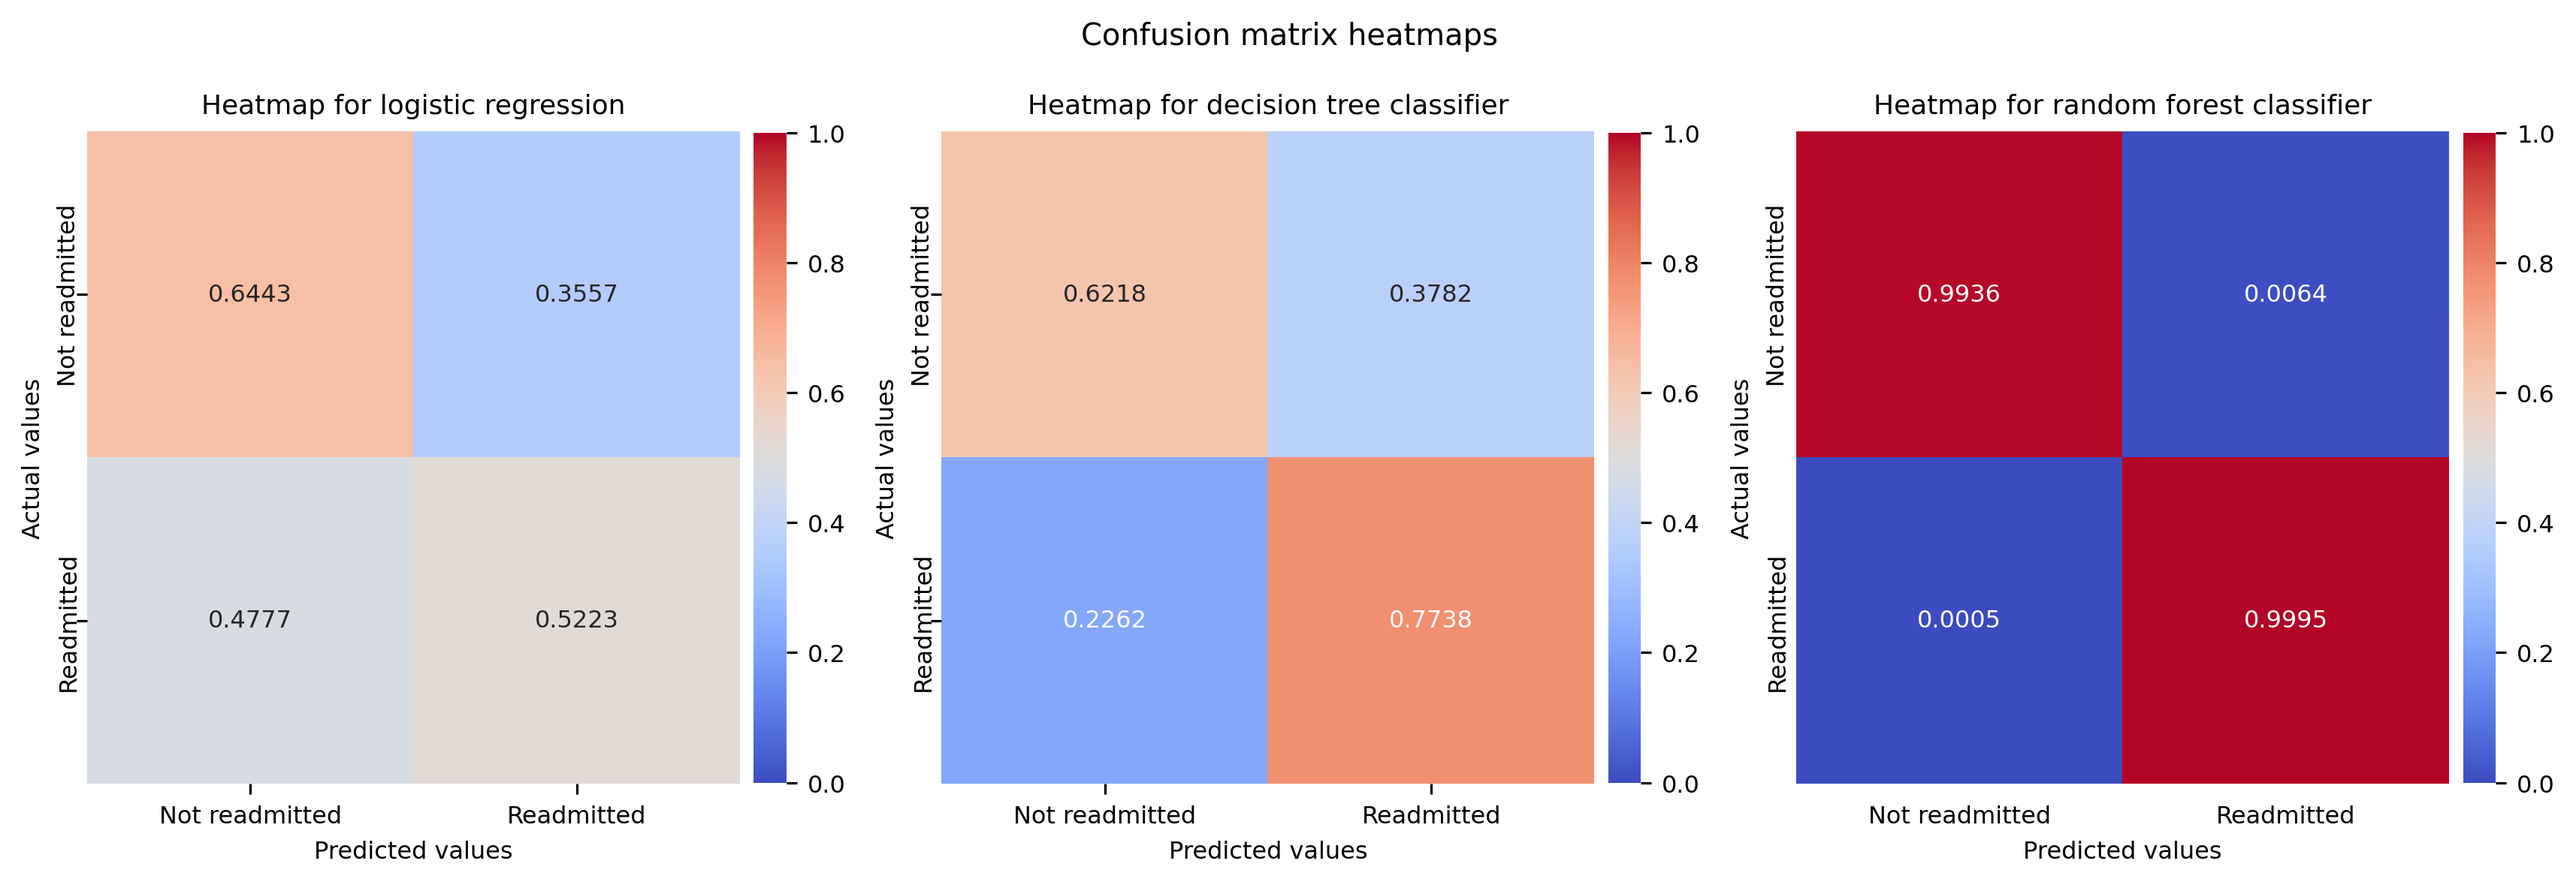
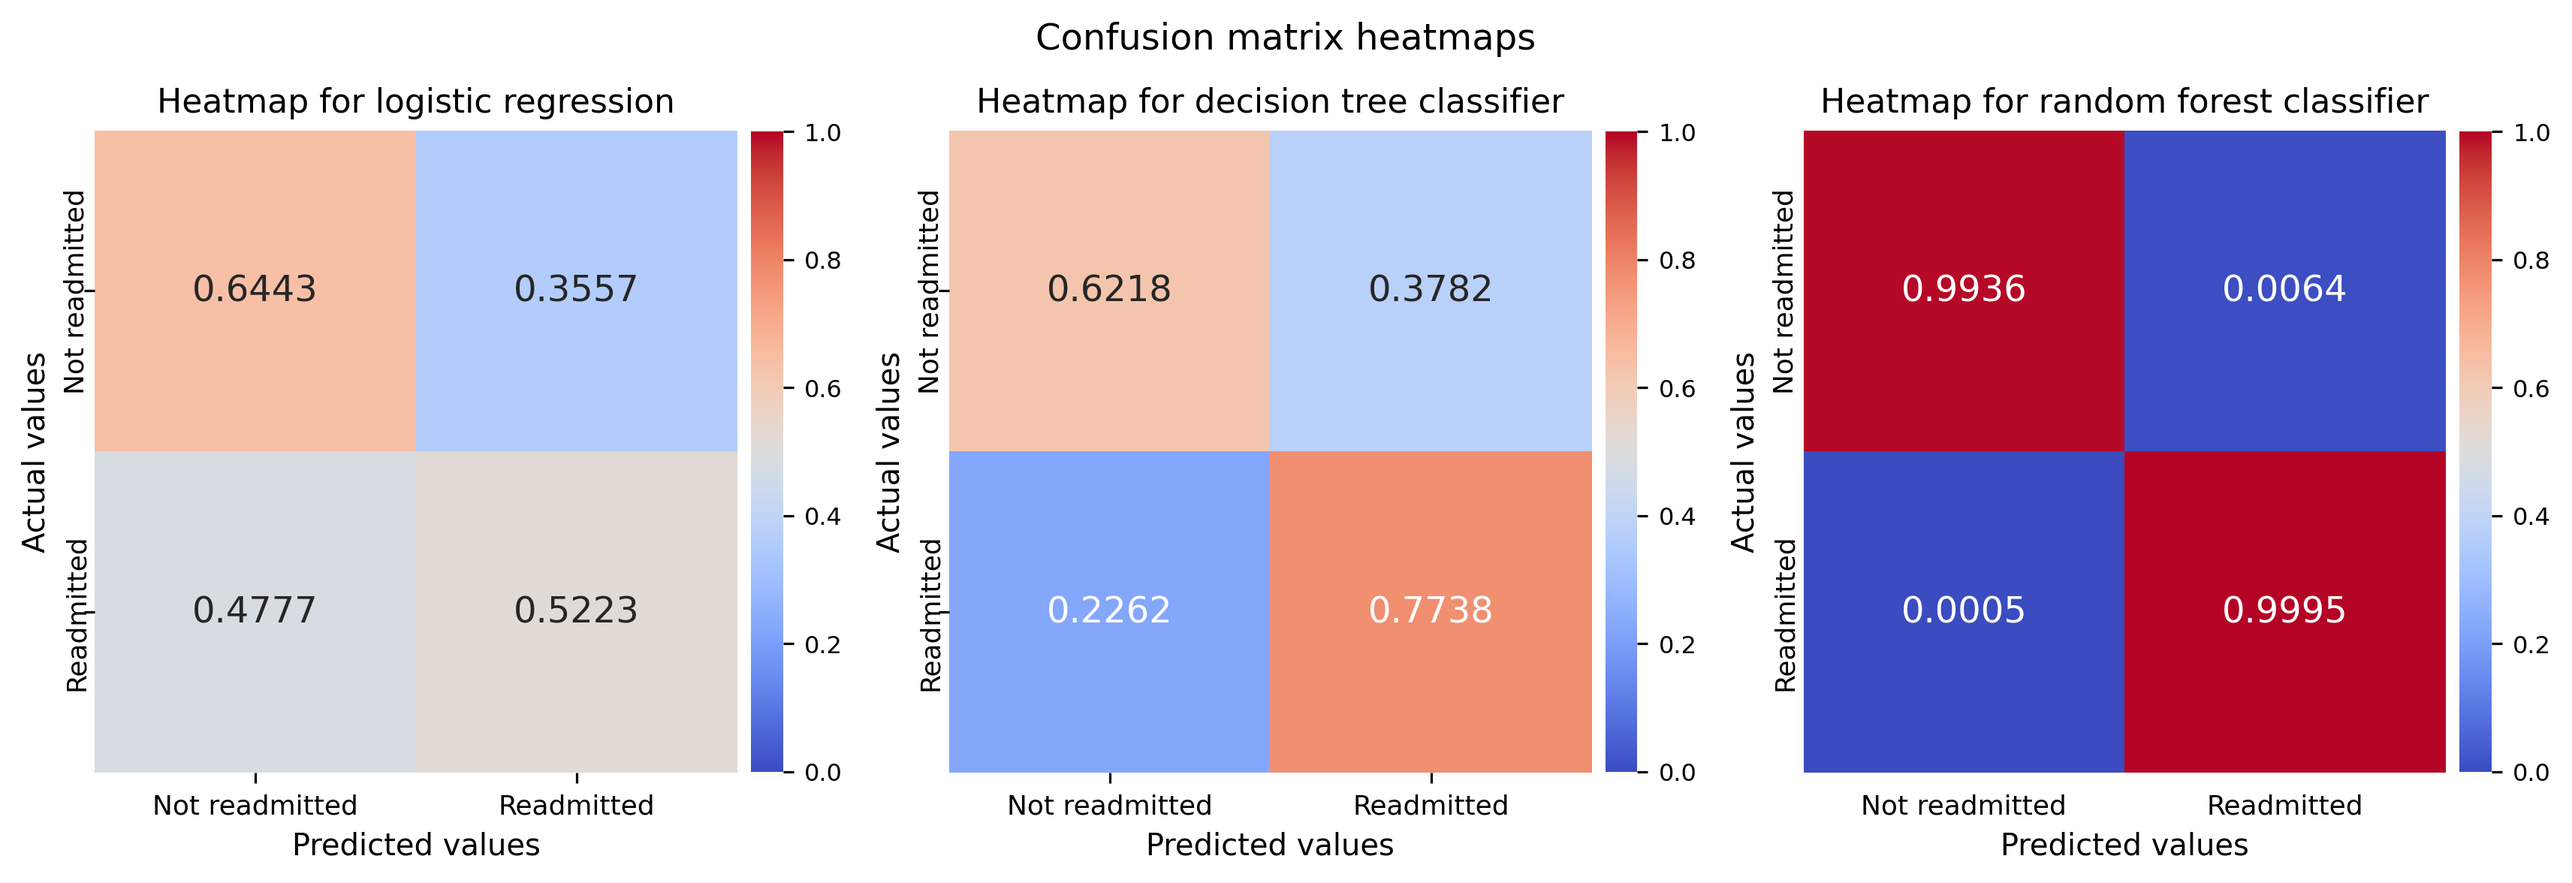
Change font size in titles, subtitles and legend

diff --git a/helper_funcs/helper_plots.py b/helper_funcs/helper_plots.py
@@ -12,14 +12,14 @@ def roc_curve_plot_with_auc(rates_dict, work_dir):
         ax.plot(fpr, tpr, marker='.', ms=6, label='AUC: {:.4f}'.format(model_roc_auc))
         ax.plot([0, 1], [0, 1], 'r--')
         ax.set_xlim([-0.02, 1.0])
-        plt.setp(ax.get_xticklabels(), fontsize=8)
+        plt.setp(ax.get_xticklabels(), fontsize=10)
         ax.set_ylim([0.0, 1.02])
-        plt.setp(ax.get_yticklabels(), fontsize=8)
-        ax.set_xlabel('False Positive Rate', fontsize=8)
-        ax.set_ylabel('True Positive Rate', fontsize=8)
-        ax.set_title('ROC curve for {0:s}'.format(name.lower()), fontsize=9)
-        ax.legend(loc='lower right', fontsize=8)
-    fig.suptitle('Receiver Operating Characteristics Curves', fontsize=10)
+        plt.setp(ax.get_yticklabels(), fontsize=10)
+        ax.set_xlabel('False Positive Rate', fontsize=10)
+        ax.set_ylabel('True Positive Rate', fontsize=10)
+        ax.set_title('ROC curve for {0:s}'.format(name.lower()), fontsize=11)
+        ax.legend(loc='lower right', fontsize=12)
+    fig.suptitle('Receiver Operating Characteristics Curves', fontsize=12)
     fig.tight_layout()
     plt.savefig(work_dir / 'plots/auc_plots.png', dpi=288, bbox_inches='tight')
 
@@ -31,18 +31,18 @@ def conf_mx_heat_plot(cm_dict, work_dir):
         row_sums = conf_mx.sum(axis=1, keepdims=True)
         norm_conf_mx = conf_mx/row_sums
         sns.heatmap(norm_conf_mx, cmap=plt.cm.coolwarm, ax=ax, square=True,
-                    vmin=0, vmax=1, annot=True, fmt='.4f', color='w', annot_kws={'fontsize': 8},
+                    vmin=0, vmax=1, annot=True, fmt='.4f', color='w', annot_kws={'fontsize': 12},
                     xticklabels=['Not readmitted', 'Readmitted'],
                     yticklabels=['Not readmitted', 'Readmitted'],
                     cbar_kws={'fraction': 0.0465, 'pad': 0.02})
-        plt.setp(ax.get_xticklabels(), ha="center", rotation_mode="anchor", rotation=0, fontsize=8)
-        plt.setp(ax.get_yticklabels(), ha="center", rotation_mode="anchor", rotation=90, fontsize=8)
+        plt.setp(ax.get_xticklabels(), ha="center", rotation_mode="anchor", rotation=0, fontsize=9)
+        plt.setp(ax.get_yticklabels(), ha="center", rotation_mode="anchor", rotation=90, fontsize=9)
         plt.tick_params(which='both', bottom=False, left=False)
         cbar = ax.collections[0].colorbar
         cbar.ax.tick_params(labelsize=8)
-        ax.set_title(f'Heatmap for {model_name.lower()}', fontsize=9)
-        ax.set_xlabel('Predicted values', fontsize=8)
-        ax.set_ylabel('Actual values', fontsize=8)
-    fig.suptitle('Confusion matrix heatmaps', fontsize=10)
+        ax.set_title(f'Heatmap for {model_name.lower()}', fontsize=11)
+        ax.set_xlabel('Predicted values', fontsize=10)
+        ax.set_ylabel('Actual values', fontsize=10)
+    fig.suptitle('Confusion matrix heatmaps', fontsize=12)
     fig.tight_layout()
     plt.savefig(work_dir / 'plots/confusion_matrix_plots.png', dpi=288, bbox_inches='tight')
